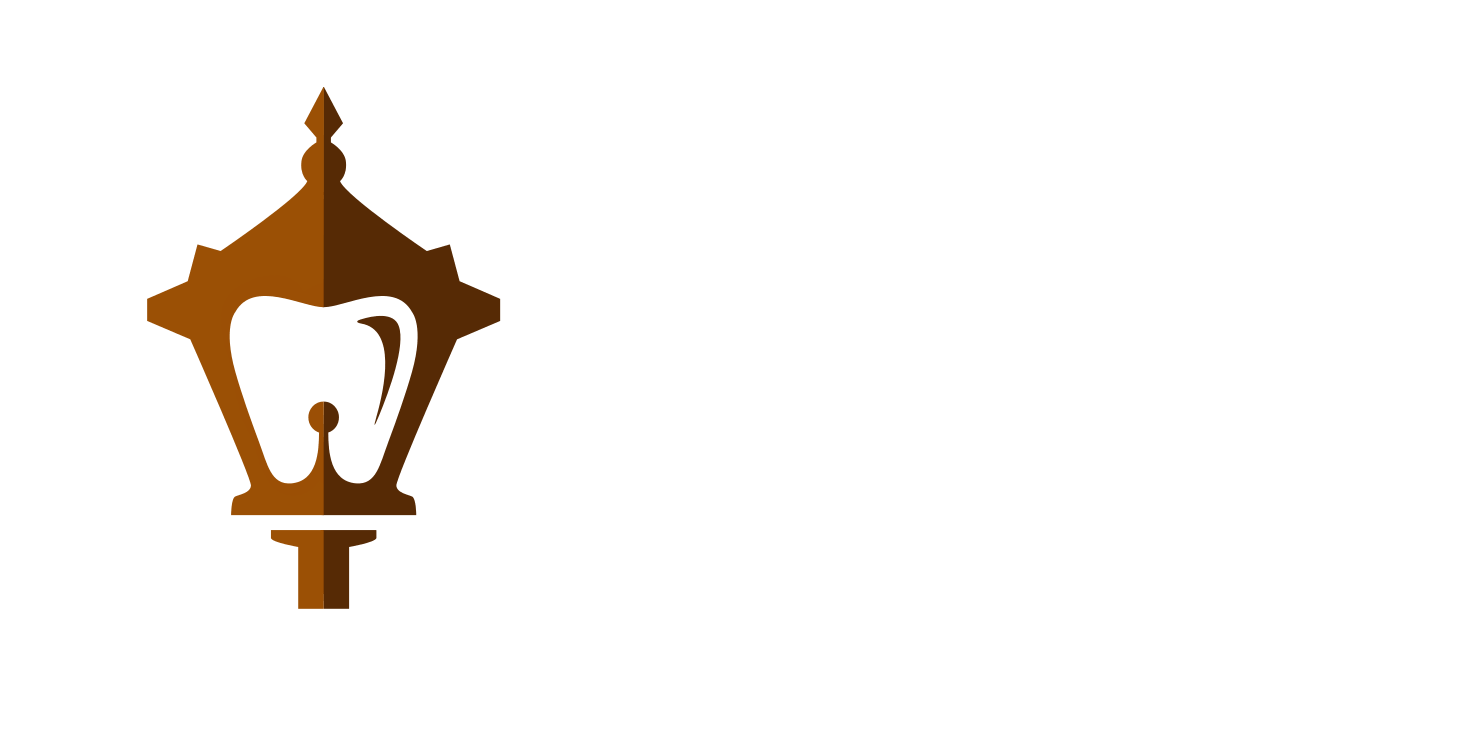
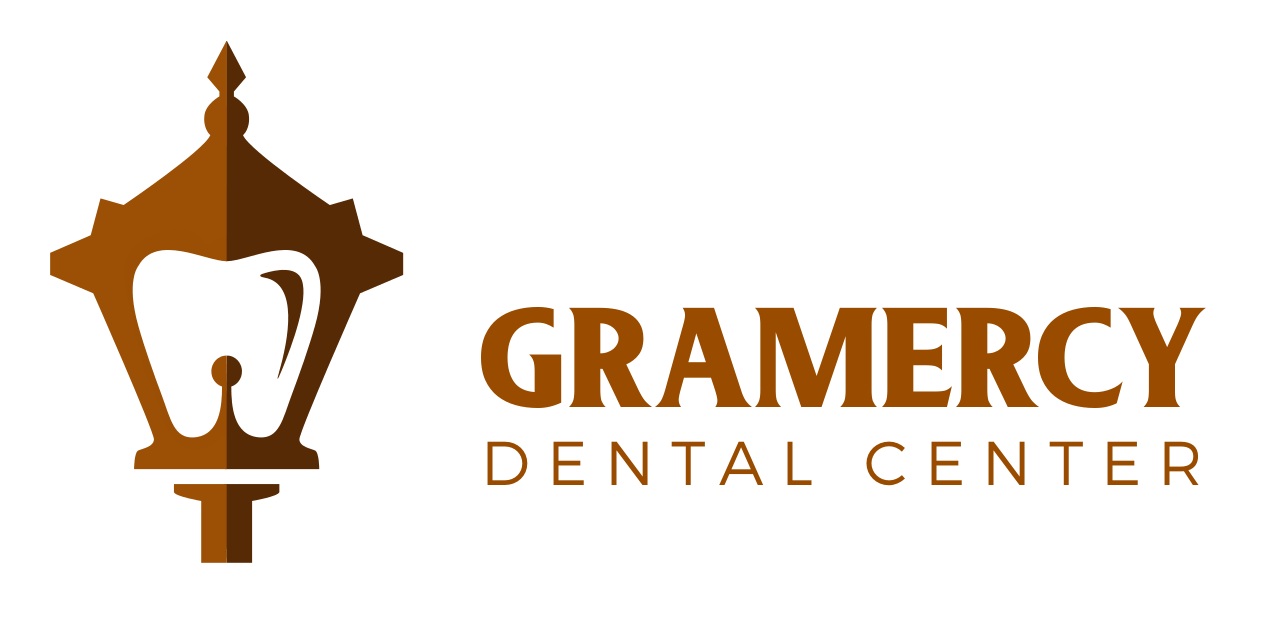
update

diff --git a/web/js/min.googleMap.js b/web/js/min.googleMap.js
@@ -1,6 +1,6 @@
 var styles=[{elementType:'geometry',stylers:[{color:'#f5f5f5'}]},{elementType:'labels.icon',stylers:[{visibility:'off'}]},{elementType:'labels.text.fill',stylers:[{color:'#616161'}]},{elementType:'labels.text.stroke',stylers:[{color:'#f5f5f5'}]},{featureType:'administrative.land_parcel',elementType:'labels.text.fill',stylers:[{color:'#bdbdbd'}]},{featureType:'poi',elementType:'geometry',stylers:[{color:'#eeeeee'}]},{featureType:'poi',elementType:'labels.text.fill',stylers:[{color:'#757575'}]},{featureType:'poi.park',elementType:'geometry',stylers:[{color:'#e5e5e5'}]},{featureType:'poi.park',elementType:'labels.text.fill',stylers:[{color:'#9e9e9e'}]},{featureType:'road',elementType:'geometry',stylers:[{color:'#ffffff'}]},{featureType:'road.arterial',elementType:'labels.text.fill',stylers:[{color:'#757575'}]},{featureType:'road.highway',elementType:'geometry',stylers:[{color:'#dadada'}]},{featureType:'road.highway',elementType:'labels.text.fill',stylers:[{color:'#616161'}]},{featureType:'road.local',elementType:'labels.text.fill',stylers:[{color:'#9e9e9e'}]},{featureType:'transit.line',elementType:'geometry',stylers:[{color:'#e5e5e5'}]},{featureType:'transit.station',elementType:'geometry',stylers:[{color:'#eeeeee'}]},{featureType:'water',elementType:'geometry',stylers:[{color:'#c9c9c9'}]},{featureType:'water',elementType:'labels.text.fill',stylers:[{color:'#9e9e9e'}]}];function initMap(){var map=new google.maps.Map(document.getElementById('map'),{zoom:2,center:{lat:17.23082107851708,lng:15.00166130065918},styles:styles,gestureHandling:'cooperative'});var input=document.getElementById('pac-input');var searchBox=new google.maps.places.SearchBox(input);map.controls[google.maps.ControlPosition.TOP_LEFT].push(input);map.addListener('bounds_changed',function(){searchBox.setBounds(map.getBounds())});var markers=[];searchBox.addListener('places_changed',function(){var places=searchBox.getPlaces();if(places.length==0){return}
 markers.forEach(function(marker){marker.setMap(null)});markers=[];var bounds=new google.maps.LatLngBounds();places.forEach(function(place){if(!place.geometry){console.log("Returned place contains no geometry");return}
-var icon={url:place.icon,size:new google.maps.Size(71,71),origin:new google.maps.Point(0,0),anchor:new google.maps.Point(17,34),scaledSize:new google.maps.Size(25,25)};markers.push(new google.maps.Marker({map:map,icon:icon,title:place.name,position:place.geometry.location}));if(place.geometry.viewport){bounds.union(place.geometry.viewport)}else{bounds.extend(place.geometry.location)}});map.fitBounds(bounds)});var image={url:'https://dentacoin.com/web/img/dcnpointer.png',size:new google.maps.Size(35,53),origin:new google.maps.Point(0,0),anchor:new google.maps.Point(19,51)};var shape={coords:[1,1,1,53,51,53,51,1],type:'poly'};var contentStringSwissDentaprime='<div id="content">'+'<div id="bodyContent">'+'<div class="shell">'+'<div class="range">'+'<div class="col-sm-12">'+'<a href="https://www.dentaprime.com/dental-clinic" target="_blank">'+'<img src="https://dentacoin.com/web/img/dentists/dp-logo.png" alt="" style="width: 200px;">'+'</a>'+'</div>'+'</div>'+'</div>'+'</div>'+'</div>';let contentStringDentaprimeFThreeT='<div id="content">'+'<div id="bodyContent">'+'<div class="shell">'+'<div class="range">'+'<div class="col-sm-12">'+'<a href="https://www.dentaprime.co.uk/" target="_blank">'+'<img src="https://dentacoin.com/web/img/dentists/f3t-logo.png" alt="" style="width: 200px;">'+'</a>'+'</div>'+'</div>'+'</div>'+'</div>'+'</div>';let contentStringDentech='<div id="content">'+'<div id="bodyContent">'+'<div class="shell">'+'<div class="range">'+'<div class="col-sm-12">'+'<a href="http://www.dentechdentalcare.com/" target="_blank">'+'<img src="https://dentacoin.com/web/img/dentists/dentch-logo.png" alt="" style="width: 200px;">'+'</a>'+'</div>'+'</div>'+'</div>'+'</div>'+'</div>';let contentStringContident='<div id="content">'+'<div id="bodyContent">'+'<div class="shell">'+'<div class="range">'+'<div class="col-sm-12">'+'<a href="http://www.contident.com/" target="_blank">'+'<img src="https://dentacoin.com/web/img/dentists/contident.png" alt="" style="width: 200px;">'+'</a>'+'</div>'+'</div>'+'</div>'+'</div>'+'</div>';let contentStringLifDental='<div id="content">'+'<div id="bodyContent">'+'<div class="shell">'+'<div class="range">'+'<div class="col-sm-12">'+'<a href="http://www.lifdental.com/"" target="_blank">'+'<img src="https://dentacoin.com/web/img/dentists/lifdental.png" alt="" style="width: 200px;">'+'</a>'+'</div>'+'</div>'+'</div>'+'</div>'+'</div>';let contentStringFlinders='<div id="content">'+'<div id="bodyContent">'+'<div class="shell">'+'<div class="range">'+'<div class="col-sm-12">'+'<a href="http://www.dentalonflinders.com.au/" target="_blank">'+'<img src="https://dentacoin.com/web/img/dentists/dental-on-flinders.png" alt="" style="width: 200px;">'+'</a>'+'</div>'+'</div>'+'</div>'+'</div>'+'</div>';let contentStringITeeth='<div id="content">'+'<div id="bodyContent">'+'<div class="shell">'+'<div class="range">'+'<div class="col-sm-12">'+'<a href="https://www.facebook.com/mr.iteeth" target="_blank">'+'<img src="https://dentacoin.com/web/img/dentists/mr-iteeth.png" alt="" style="width: 200px;">'+'</a>'+'</div>'+'</div>'+'</div>'+'</div>'+'</div>';let contentStringQAD='<div id="content">'+'<div id="bodyContent">'+'<div class="shell">'+'<div class="range">'+'<div class="col-sm-12">'+'<a href="http://www.qadental.co.uk/" target="_blank">'+'<img src="https://dentacoin.com/web/img/dentists/qad.png" alt="" style="width: 200px;">'+'</a>'+'</div>'+'</div>'+'</div>'+'</div>'+'</div>';let contentStringAura='<div id="content">'+'<div id="bodyContent">'+'<div class="shell">'+'<div class="range">'+'<div class="col-sm-12">'+'<a href="http://aurafamilydentistry.com/" target="_blank">'+'<img src="https://dentacoin.com/web/img/dentists/aura.png" alt="" style="width: 200px;">'+'</a>'+'</div>'+'</div>'+'</div>'+'</div>'+'</div>';let contentStringDailyCare='<div id="content">'+'<div id="bodyContent">'+'<div class="shell">'+'<div class="range">'+'<div class="col-sm-12">'+'<a href="http://dailycaredental.webs.com/" target="_blank">'+'<img src="https://dentacoin.com/web/img/dentists/daily-dental.png" alt="" style="width: 200px;">'+'</a>'+'</div>'+'</div>'+'</div>'+'</div>'+'</div>';let contentStringDentistsThree='<div id="content">'+'<div id="bodyContent">'+'<div class="shell">'+'<div class="range">'+'<div class="col-sm-12">'+'<a href="http://dentist3.com/" target="_blank">'+'<img src="https://dentacoin.com/web/img/dentists/dentist3.png" alt="" style="width: 200px;">'+'</a>'+'</div>'+'</div>'+'</div>'+'</div>'+'</div>';let contentStringStudioTOIA='<div id="content">'+'<div id="bodyContent">'+'<div class="shell">'+'<div class="range">'+'<div class="col-sm-12">'+'<a href="http://www.studiotoia.com/en/" target="_blank">'+'<img src="https://dentacoin.com/web/img/dentists/studio-toia.png" alt="" style="width: 200px;">'+'</a>'+'</div>'+'</div>'+'</div>'+'</div>'+'</div>';let contentStringArkling='<div id="content">'+'<div id="bodyContent">'+'<div class="shell">'+'<div class="range">'+'<div class="col-sm-12">'+'<a href="https://www.arklign.com/products/how-we-fabricate/" target="_blank">'+'<img src="https://dentacoin.com/web/img/dentists/arkling.png" alt="" style="width: 200px;">'+'</a>'+'</div>'+'</div>'+'</div>'+'</div>'+'</div>';let contentStringGroupHealth='<div id="content">'+'<div id="bodyContent">'+'<div class="shell">'+'<div class="range">'+'<div class="col-sm-12" style="background: black;">'+'<a href="http://www.grouphealthdental.com/" target="_blank">'+'<img src="https://dentacoin.com/web/img/dentists/grouphealth.png" alt="" style="width: 200px;">'+'</a>'+'</div>'+'</div>'+'</div>'+'</div>'+'</div>';let contentStringParkSouth='<div id="content">'+'<div id="bodyContent">'+'<div class="shell">'+'<div class="range">'+'<div class="col-sm-12">'+'<a href="http://www.parksouthdentistry.com" target="_blank">'+'<img src="https://dentacoin.com/web/img/dentists/parksouth.png" alt="" style="width: 200px;">'+'</a>'+'</div>'+'</div>'+'</div>'+'</div>'+'</div>';let contentStringGramercy='<div id="content">'+'<div id="bodyContent">'+'<div class="shell">'+'<div class="range">'+'<div class="col-sm-12" style="background: black;">'+'<a href="https://www.gramercydentalcenter.com/" target="_blank">'+'<img src="https://dentacoin.com/web/img/dentists/gramercydental.png" alt="" style="width: 200px;">'+'</a>'+'</div>'+'</div>'+'</div>'+'</div>'+'</div>';var infowindowSwissDentaprime=new google.maps.InfoWindow({content:contentStringSwissDentaprime});let infowindowDentaprimeFThreeT=new google.maps.InfoWindow({content:contentStringDentaprimeFThreeT});let infowindowDentech=new google.maps.InfoWindow({content:contentStringDentech});let infowindowContident=new google.maps.InfoWindow({content:contentStringContident});let infowindowLifDental=new google.maps.InfoWindow({content:contentStringLifDental});let infowindowFlinders=new google.maps.InfoWindow({content:contentStringFlinders});let infowindowITeeth=new google.maps.InfoWindow({content:contentStringITeeth});let infowindowQAD=new google.maps.InfoWindow({content:contentStringQAD});let infowindowAura=new google.maps.InfoWindow({content:contentStringAura});let infowindowDailyCare=new google.maps.InfoWindow({content:contentStringDailyCare});let infowindowDentistsThree=new google.maps.InfoWindow({content:contentStringDentistsThree});let infowindowStudioToia=new google.maps.InfoWindow({content:contentStringStudioTOIA});let infowindowArkling=new google.maps.InfoWindow({content:contentStringArkling})
+var icon={url:place.icon,size:new google.maps.Size(71,71),origin:new google.maps.Point(0,0),anchor:new google.maps.Point(17,34),scaledSize:new google.maps.Size(25,25)};markers.push(new google.maps.Marker({map:map,icon:icon,title:place.name,position:place.geometry.location}));if(place.geometry.viewport){bounds.union(place.geometry.viewport)}else{bounds.extend(place.geometry.location)}});map.fitBounds(bounds)});var image={url:'https://dentacoin.com/web/img/dcnpointer.png',size:new google.maps.Size(35,53),origin:new google.maps.Point(0,0),anchor:new google.maps.Point(19,51)};var shape={coords:[1,1,1,53,51,53,51,1],type:'poly'};var contentStringSwissDentaprime='<div id="content">'+'<div id="bodyContent">'+'<div class="shell">'+'<div class="range">'+'<div class="col-sm-12">'+'<a href="https://www.dentaprime.com/dental-clinic" target="_blank">'+'<img src="https://dentacoin.com/web/img/dentists/dp-logo.png" alt="" style="width: 200px;">'+'</a>'+'</div>'+'</div>'+'</div>'+'</div>'+'</div>';let contentStringDentaprimeFThreeT='<div id="content">'+'<div id="bodyContent">'+'<div class="shell">'+'<div class="range">'+'<div class="col-sm-12">'+'<a href="https://www.dentaprime.co.uk/" target="_blank">'+'<img src="https://dentacoin.com/web/img/dentists/f3t-logo.png" alt="" style="width: 200px;">'+'</a>'+'</div>'+'</div>'+'</div>'+'</div>'+'</div>';let contentStringDentech='<div id="content">'+'<div id="bodyContent">'+'<div class="shell">'+'<div class="range">'+'<div class="col-sm-12">'+'<a href="http://www.dentechdentalcare.com/" target="_blank">'+'<img src="https://dentacoin.com/web/img/dentists/dentch-logo.png" alt="" style="width: 200px;">'+'</a>'+'</div>'+'</div>'+'</div>'+'</div>'+'</div>';let contentStringContident='<div id="content">'+'<div id="bodyContent">'+'<div class="shell">'+'<div class="range">'+'<div class="col-sm-12">'+'<a href="http://www.contident.com/" target="_blank">'+'<img src="https://dentacoin.com/web/img/dentists/contident.png" alt="" style="width: 200px;">'+'</a>'+'</div>'+'</div>'+'</div>'+'</div>'+'</div>';let contentStringLifDental='<div id="content">'+'<div id="bodyContent">'+'<div class="shell">'+'<div class="range">'+'<div class="col-sm-12">'+'<a href="http://www.lifdental.com/"" target="_blank">'+'<img src="https://dentacoin.com/web/img/dentists/lifdental.png" alt="" style="width: 200px;">'+'</a>'+'</div>'+'</div>'+'</div>'+'</div>'+'</div>';let contentStringFlinders='<div id="content">'+'<div id="bodyContent">'+'<div class="shell">'+'<div class="range">'+'<div class="col-sm-12">'+'<a href="http://www.dentalonflinders.com.au/" target="_blank">'+'<img src="https://dentacoin.com/web/img/dentists/dental-on-flinders.png" alt="" style="width: 200px;">'+'</a>'+'</div>'+'</div>'+'</div>'+'</div>'+'</div>';let contentStringITeeth='<div id="content">'+'<div id="bodyContent">'+'<div class="shell">'+'<div class="range">'+'<div class="col-sm-12">'+'<a href="https://www.facebook.com/mr.iteeth" target="_blank">'+'<img src="https://dentacoin.com/web/img/dentists/mr-iteeth.png" alt="" style="width: 200px;">'+'</a>'+'</div>'+'</div>'+'</div>'+'</div>'+'</div>';let contentStringQAD='<div id="content">'+'<div id="bodyContent">'+'<div class="shell">'+'<div class="range">'+'<div class="col-sm-12">'+'<a href="http://www.qadental.co.uk/" target="_blank">'+'<img src="https://dentacoin.com/web/img/dentists/qad.png" alt="" style="width: 200px;">'+'</a>'+'</div>'+'</div>'+'</div>'+'</div>'+'</div>';let contentStringAura='<div id="content">'+'<div id="bodyContent">'+'<div class="shell">'+'<div class="range">'+'<div class="col-sm-12">'+'<a href="http://aurafamilydentistry.com/" target="_blank">'+'<img src="https://dentacoin.com/web/img/dentists/aura.png" alt="" style="width: 200px;">'+'</a>'+'</div>'+'</div>'+'</div>'+'</div>'+'</div>';let contentStringDailyCare='<div id="content">'+'<div id="bodyContent">'+'<div class="shell">'+'<div class="range">'+'<div class="col-sm-12">'+'<a href="http://dailycaredental.webs.com/" target="_blank">'+'<img src="https://dentacoin.com/web/img/dentists/daily-dental.png" alt="" style="width: 200px;">'+'</a>'+'</div>'+'</div>'+'</div>'+'</div>'+'</div>';let contentStringDentistsThree='<div id="content">'+'<div id="bodyContent">'+'<div class="shell">'+'<div class="range">'+'<div class="col-sm-12">'+'<a href="http://dentist3.com/" target="_blank">'+'<img src="https://dentacoin.com/web/img/dentists/dentist3.png" alt="" style="width: 200px;">'+'</a>'+'</div>'+'</div>'+'</div>'+'</div>'+'</div>';let contentStringStudioTOIA='<div id="content">'+'<div id="bodyContent">'+'<div class="shell">'+'<div class="range">'+'<div class="col-sm-12">'+'<a href="http://www.studiotoia.com/en/" target="_blank">'+'<img src="https://dentacoin.com/web/img/dentists/studio-toia.png" alt="" style="width: 200px;">'+'</a>'+'</div>'+'</div>'+'</div>'+'</div>'+'</div>';let contentStringArkling='<div id="content">'+'<div id="bodyContent">'+'<div class="shell">'+'<div class="range">'+'<div class="col-sm-12">'+'<a href="https://www.arklign.com/products/how-we-fabricate/" target="_blank">'+'<img src="https://dentacoin.com/web/img/dentists/arkling.png" alt="" style="width: 200px;">'+'</a>'+'</div>'+'</div>'+'</div>'+'</div>'+'</div>';let contentStringGroupHealth='<div id="content">'+'<div id="bodyContent">'+'<div class="shell">'+'<div class="range">'+'<div class="col-sm-12">'+'<a href="http://www.grouphealthdental.com/" target="_blank">'+'<img src="https://dentacoin.com/web/img/dentists/grouphealth.png" alt="" style="width: 200px;">'+'</a>'+'</div>'+'</div>'+'</div>'+'</div>'+'</div>';let contentStringParkSouth='<div id="content">'+'<div id="bodyContent">'+'<div class="shell">'+'<div class="range">'+'<div class="col-sm-12">'+'<a href="http://www.parksouthdentistry.com" target="_blank">'+'<img src="https://dentacoin.com/web/img/dentists/parksouth.png" alt="" style="width: 200px;">'+'</a>'+'</div>'+'</div>'+'</div>'+'</div>'+'</div>';let contentStringGramercy='<div id="content">'+'<div id="bodyContent">'+'<div class="shell">'+'<div class="range">'+'<div class="col-sm-12">'+'<a href="https://www.gramercydentalcenter.com/" target="_blank">'+'<img src="https://dentacoin.com/web/img/dentists/gramercydental.png" alt="" style="width: 200px;">'+'</a>'+'</div>'+'</div>'+'</div>'+'</div>'+'</div>';var infowindowSwissDentaprime=new google.maps.InfoWindow({content:contentStringSwissDentaprime});let infowindowDentaprimeFThreeT=new google.maps.InfoWindow({content:contentStringDentaprimeFThreeT});let infowindowDentech=new google.maps.InfoWindow({content:contentStringDentech});let infowindowContident=new google.maps.InfoWindow({content:contentStringContident});let infowindowLifDental=new google.maps.InfoWindow({content:contentStringLifDental});let infowindowFlinders=new google.maps.InfoWindow({content:contentStringFlinders});let infowindowITeeth=new google.maps.InfoWindow({content:contentStringITeeth});let infowindowQAD=new google.maps.InfoWindow({content:contentStringQAD});let infowindowAura=new google.maps.InfoWindow({content:contentStringAura});let infowindowDailyCare=new google.maps.InfoWindow({content:contentStringDailyCare});let infowindowDentistsThree=new google.maps.InfoWindow({content:contentStringDentistsThree});let infowindowStudioToia=new google.maps.InfoWindow({content:contentStringStudioTOIA});let infowindowArkling=new google.maps.InfoWindow({content:contentStringArkling})
 let infowindowGroupHealth=new google.maps.InfoWindow({content:contentStringGroupHealth})
 let infowindowParkSouth=new google.maps.InfoWindow({content:contentStringParkSouth})
 let infowindowGramercy=new google.maps.InfoWindow({content:contentStringGramercy})

diff --git a/partners/index.html b/partners/index.html
@@ -97,8 +97,8 @@
                   </div>
                   <div class="range range-sm-center text-center" style="margin-top: 0;">
                     <div class="col-sm-12 offset-top-22">
-                      <div class="col-sm-4 offset-top-15"><a style="width: 205px; background: black;" href="https://www.gramercydentalcenter.com/" target="_blank"><img src="../web/img/dentists/gramercydental.png" alt=""></a></div>
-                      <div class="col-sm-4 offset-top-15"><a style="width: 205px; background: black; margin-top: 3rem;" href="http://www.grouphealthdental.com/" target="_blank"><img src="../web/img/dentists/grouphealth.png" alt=""></a></div>
+                      <div class="col-sm-4 offset-top-15"><a style="width: 205px;" href="https://www.gramercydentalcenter.com/" target="_blank"><img src="../web/img/dentists/gramercydental.png" alt=""></a></div>
+                      <div class="col-sm-4 offset-top-15"><a style="width: 205px; margin-top: 3rem;" href="http://www.grouphealthdental.com/" target="_blank"><img src="../web/img/dentists/grouphealth.png" alt=""></a></div>
                       <div class="col-sm-4 offset-top-15"><a style="width: 205px;" href="http://www.parksouthdentistry.com/location.html" target="_blank"><img src="../web/img/dentists/parksouth.png" alt=""></a></div>
                     </div>
                     <div class="col-sm-12 offset-top-22">

diff --git a/web/js/googleMap.js b/web/js/googleMap.js
@@ -351,7 +351,7 @@
                                   '<div id="bodyContent">'+
                                     '<div class="shell">'+
                                       '<div class="range">'+
-                                        '<div class="col-sm-12" style="background: black;">'+
+                                        '<div class="col-sm-12">'+
                                           '<a href="http://www.grouphealthdental.com/" target="_blank">'+
                                             '<img src="https://dentacoin.com/web/img/dentists/grouphealth.png" alt="" style="width: 200px;">'+
                                           '</a>'+
@@ -377,7 +377,7 @@
                                     '<div id="bodyContent">'+
                                       '<div class="shell">'+
                                         '<div class="range">'+
-                                          '<div class="col-sm-12" style="background: black;">'+
+                                          '<div class="col-sm-12">'+
                                             '<a href="https://www.gramercydentalcenter.com/" target="_blank">'+
                                               '<img src="https://dentacoin.com/web/img/dentists/gramercydental.png" alt="" style="width: 200px;">'+
                                             '</a>'+
